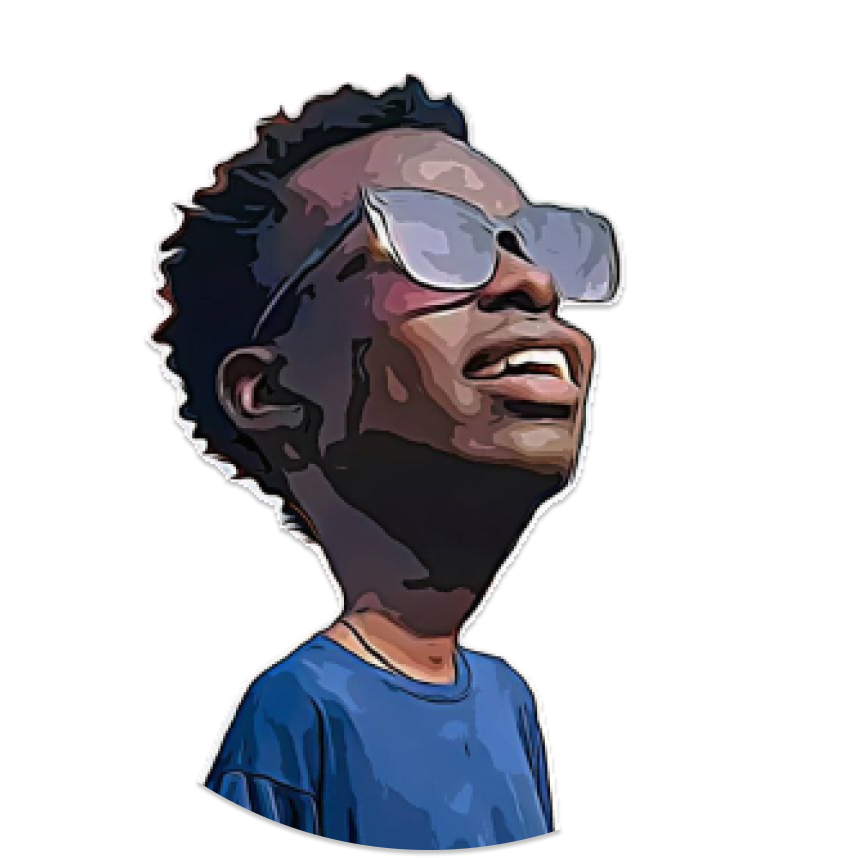
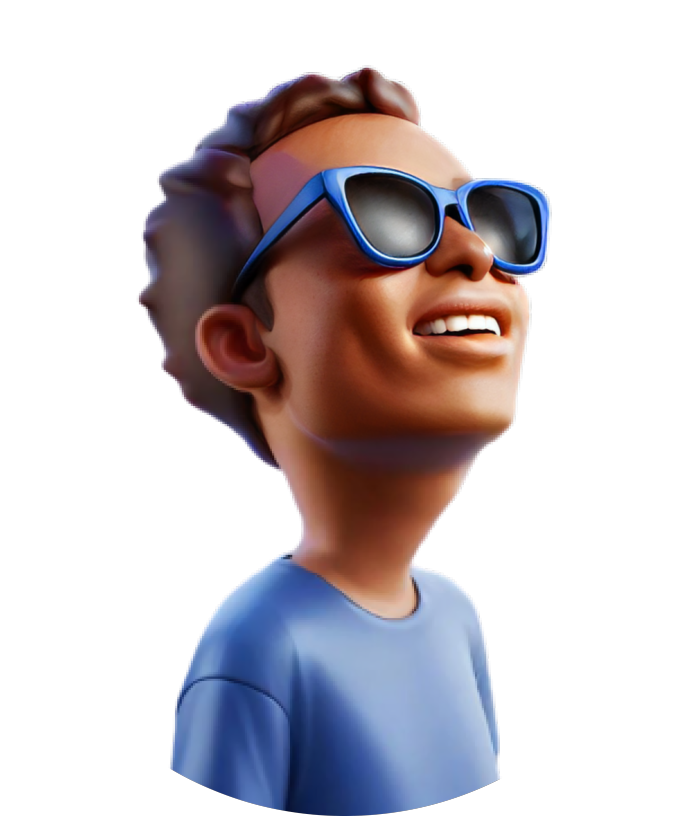
add 3d heroImg and contactImg

diff --git a/index.html b/index.html
@@ -221,7 +221,7 @@
 					<div class="col-lg col-12 text-center text-lg-end col-lg-6">
 						<img src="assets/heroImg.png" class="hero-img" alt="" />
 					</div>
-					<div class="col-lg col-lg-6 pt-lg-5">
+					<div class="col-lg col-lg-6 pt-lg-5 mx-auto mx-md-0">
 						<div class="col-12 mb-3 text-center">
 							<p class="shout mb-0">
 								<span class="squeeze">Joe</span>
